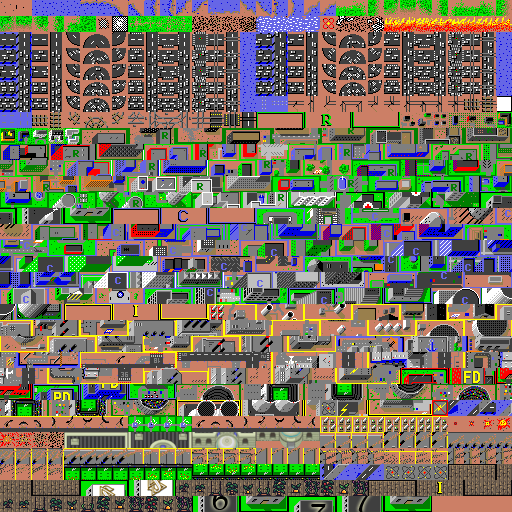
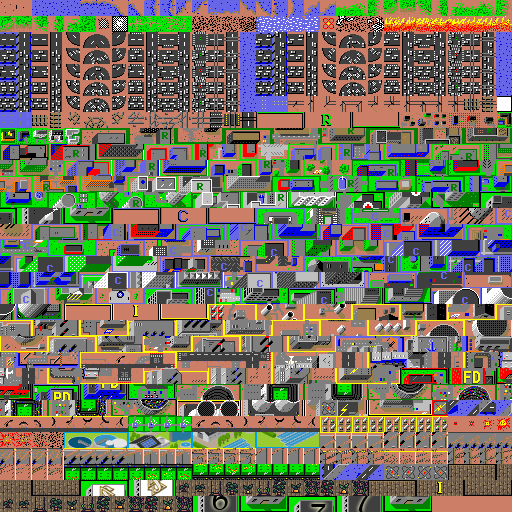
field window 2

Changed region(s): [[0.125, 0.8438, 0.625, 0.875]]

diff --git a/index.html b/index.html
@@ -115,7 +115,7 @@
           <div id="toolInfo" class="alignCenter"><span id="toolOutput">Tools</span></div>
           <div id="buttons">
             <button id="residentialButton" data-size="3" data-tool="residential" data-colour="lime" class="toolButton unselected">Residential $100</button>
-            <button id="fieldButton" data-size="3" data-tool="field" data-colour="darkgoldenrod" class="toolButton unselected">Field $100</button>
+            <button id="fieldButton" data-size="3" data-tool="field" data-colour="darkgoldenrod" class="toolButton unselected">Field</button>
             <button id="nuclearButton" data-size="4" data-tool="nuclear" data-colour="mistyrose" class="toolButton unselected">Nuclear $5000</button>
             <button id="commercialButton" data-size="3" data-tool="commercial" data-colour="blue" class="toolButton unselected">Commercial $100</button>
             <button id="coalButton" data-size="4" data-tool="coal" data-colour="gray" class="toolButton unselected">Coal $3000</button>
@@ -166,12 +166,44 @@
           <div id="build">Build: <%= htmlWebpackPlugin.options.gitHash %></div>
         </div>
       </footer>
+      <div class="hidden modal shadow" id="field">
+        <header id="fieldHeader" class="fieldHeader padding10 chunk alignCenter">
+           Field
+        </header>
+        <div id="fieldContainer" class="padding10 open">
+          <form id="fieldForm" class="alignCenter margin10">
+            <div id="fieldFormContainer">
+              <div id="autoBudgetSelect" class="padding10">
+                WWTP:
+                <input type="radio" class="WWTPSetting" name="WWTPSetting" id="WWTPYes" value="true" checked="checked"><label for="WWTPYes">Yes</label>
+                <input type="radio" class="WWTPSetting" name="WWTPSetting" id="WWTPNo" value="false"><label for="WWTPNo">No</label>
+              </div>
+              <div id="fieldTypeSelect" class="padding10"></div> 
+                Field type:
+                <input type="radio" class="FieldSetting" name="FieldSetting" id="FieldSelect" checked="checked"><label for="Field">Yes</label>
+                <input type="radio" class="FieldSetting" name="FieldSetting" id="IndFieldSelect"><label for="IndField">No</label>
+              </div>
+              <div id="cropSelect" class="padding10">  
+                Crop:
+                <select id="selectCrop">
+                  <option id="mela" value="Mela">Mela</option>
+                  <option id="pera" value="Pera">Pera</option>
+                  <option id="banana" value="Banana">Banana</option>
+                </select>
+              </div>
+            </div>
+            <button id="fieldCancel" class="cancel width140">Cancel</button>
+            <input type="submit" id="fieldOK" class="dialogOK width140" value="OK">
+          </form>
+        </div>
+      </div>
       <div class="hidden modal shadow" id="budget">
         <header id="budgetHeader" class="budgetHeader padding10 chunk alignCenter">
            Budget
         </header>
         <div id="budgetFormContainer" class="padding10 open">
           <form id="budgetForm">
+            <div id="fieldInfo" class="elided budgetRight budgetData">Year fields cost: <span id="fieldsCost"></span></div>
             <div id="taxInfo" class="elided budgetData">Tax Collected: <span id="taxesCollected"></span></div>
             <div id="cashInfo" class="elided budgetRight budgetData">Cashflow: <span id="cashFlow"></span></div>
             <div id="previousInfo" class="elided budgetData">Previous funds: <span id="previousFunds"></span></div>

diff --git a/src/budget.js b/src/budget.js
@@ -37,6 +37,7 @@ var Budget = EventEmitter(function() {
   this.cityTax = 7;
   this.cashFlow = 0;
   this.taxFund = 0;
+  this.fieldsCost = 0;
 
   // These values denote how much money is required to fully maintain the relevant services
   this.roadMaintenanceBudget = 0;
@@ -60,7 +61,7 @@ var Budget = EventEmitter(function() {
 
 var saveProps = ['autoBudget', 'totalFunds', 'policePercent', 'roadPercent', 'firePercent', 'roadSpend',
                  'policeSpend', 'fireSpend', 'roadMaintenanceBudget', 'policeMaintenanceBudget',
-                 'fireMaintenanceBudget', 'cityTax', 'roadEffect', 'policeEffect', 'fireEffect'];
+                 'fireMaintenanceBudget', 'cityTax', 'roadEffect', 'policeEffect', 'fireEffect', 'fieldsCost'];
 
 Budget.prototype.save = function(saveData) {
   for (var i = 0, l = saveProps.length; i < l; i++)
@@ -173,7 +174,7 @@ Budget.prototype.doBudgetNow = function(fromWindow) {
   var policeCost = costs.police;
   var fireCost = costs.fire;
   var totalCost = roadCost + policeCost + fireCost;
-  var cashRemaining = this.totalFunds + this.taxFund - totalCost;
+  var cashRemaining = this.totalFunds + this.taxFund - this.fieldsCost - totalCost;
 
   // Autobudget
   if ((cashRemaining > 0 && this.autoBudget) || fromWindow) {
@@ -196,7 +197,7 @@ Budget.prototype.doBudgetSpend = function(roadValue, fireValue, policeValue) {
   this.roadSpend = roadValue;
   this.fireSpend = fireValue;
   this.policeSpend = policeValue;
-  var total = this.roadSpend + this.fireSpend + this.policeSpend;
+  var total = this.roadSpend + this.fireSpend + this.policeSpend + this.fieldsCost;
 
   this.spend(-(this.taxFund - total));
   this.updateFundEffects();
@@ -239,7 +240,7 @@ Budget.prototype.collectTax = function(gameLevel, census) {
   this.taxFund = Math.floor(Math.floor(census.totalPop * census.landValueAverage / 120) * this.cityTax * FLevels[gameLevel]);
 
   if (census.totalPop > 0) {
-    this.cashFlow = this.taxFund - (this.policeMaintenanceBudget + this.fireMaintenanceBudget + this.roadMaintenanceBudget);
+    this.cashFlow = this.taxFund - (this.fieldsCost + this.policeMaintenanceBudget + this.fireMaintenanceBudget + this.roadMaintenanceBudget);
     this.doBudgetNow(false);
   } else {
     // We don't want roads etc deteriorating when population hasn't yet been established

diff --git a/src/game.js b/src/game.js
@@ -14,6 +14,7 @@ import { CongratsWindow } from './congratsWindow';
 import { DebugWindow } from './debugWindow';
 import { DisasterWindow } from './disasterWindow';
 import { EvaluationWindow } from './evaluationWindow';
+import { FieldWindow } from './fieldWindow';
 import { GameCanvas } from './gameCanvas';
 import { GameMap } from './gameMap';
 import { InfoBar } from './infoBar';
@@ -123,7 +124,8 @@ function Game(gameMap, tileSet, snowTileSet, spriteSheet, difficulty, name) {
       policeRate: Math.floor(this.simulation.budget.policePercent * 100),
       taxRate: this.simulation.budget.cityTax,
       totalFunds: this.simulation.budget.totalFunds,
-      taxesCollected: this.simulation.budget.taxFund
+      taxesCollected: this.simulation.budget.taxFund,
+      fieldsCost: this.simulation.budget.fieldsCost
     };
 
     return [budgetData];
@@ -172,6 +174,16 @@ function Game(gameMap, tileSet, snowTileSet, spriteSheet, difficulty, name) {
   // ... the touch warn window
   this.touchWindow = new TouchWarnWindow(opacityLayerID, 'touchWarnWindow');
   this.touchWindow.addEventListener(Messages.TOUCH_WINDOW_CLOSED, this.genericDialogClosure);
+
+  // ... the field crops choise window
+  this.handleFieldRequest = makeWindowOpenHandler('field', function() {
+    return [{autoBudget: this.simulation.budget.autoBudget, autoBulldoze: BaseTool.getAutoBulldoze(),
+      speed: this.defaultSpeed, disasters: this.simulation.disasterManager.disastersEnabled}];
+  }.bind(this));
+
+  this.fieldWindow = new FieldWindow(opacityLayerID, 'field');
+  this.fieldWindow.addEventListener(Messages.FIELD_WINDOW_CLOSED, this.genericDialogClosure);
+  this.inputStatus.addEventListener(Messages.FIELD_REQUESTED, this.handleFieldRequest.bind(this));
 
   // ... and finally the query window
   this.queryWindow = new QueryWindow(opacityLayerID, 'queryWindow');

diff --git a/src/inputStatus.js b/src/inputStatus.js
@@ -60,6 +60,7 @@ var InputStatus = EventEmitter(function(map, tileWidth) {
   $('.toolButton').click(toolButtonHandler.bind(this));
   $('#budgetRequest').click(budgetHandler.bind(this));
   $('#evalRequest').click(evalHandler.bind(this));
+  $('#fieldButton').click(fieldHandler.bind(this));
   $('#disasterRequest').click(disasterHandler.bind(this));
   $('#pauseRequest').click(this.speedChangeHandler.bind(this));
   $('#screenshotRequest').click(screenshotHandler.bind(this));
@@ -300,6 +301,7 @@ var budgetHandler = makeHandler('BUDGET_REQUESTED');
 var debugHandler = makeHandler('DEBUG_WINDOW_REQUESTED');
 var disasterHandler = makeHandler('DISASTER_REQUESTED');
 var evalHandler = makeHandler('EVAL_REQUESTED');
+var fieldHandler = makeHandler('FIELD_REQUESTED');
 var screenshotHandler = makeHandler('SCREENSHOT_WINDOW_REQUESTED');
 var settingsHandler = makeHandler('SETTINGS_WINDOW_REQUESTED');
 var saveHandler = makeHandler('SAVE_REQUESTED');

diff --git a/src/fieldWindow.js b/src/fieldWindow.js
@@ -24,6 +24,7 @@ var fieldOKID = '#fieldOK';
 var WWTPYesID = '#WWTPYes';
 var WWTPNoID = '#WWTPNo';
 var fieldSelectID = '#fieldSelect';
+var indFieldSelectID = '#indFieldSelect'
 
 
 
@@ -33,6 +34,10 @@ FieldWindow.prototype.close = function(actions) {
   this._toggleDisplay();
 };
 
+var cancel = function(e) {
+  e.preventDefault();
+  this.close({cancelled: true});
+};
 
 var submit = function(e) {
   e.preventDefault();
@@ -55,7 +60,7 @@ var submit = function(e) {
 };
 
 
-SettingsWindow.prototype.open = function(settingsData) {
+FieldWindow.prototype.open = function(fieldData) {
   if (fieldData.WWTP)
     $(WWTPYesID).prop('checked', true);
   else
@@ -89,4 +94,4 @@ defineAction('WWTP');
 
 
 
-export { SettingsWindow };
+export { FieldWindow };

diff --git a/src/messages.js b/src/messages.js
@@ -28,6 +28,8 @@ var messageData = {
   EVAL_UPDATED: MiscUtils.makeConstantDescriptor('Evaluation Updated'),
   EVAL_WINDOW_CLOSED: MiscUtils.makeConstantDescriptor('Eval window closed'),
   EXPLOSION_REPORTED: MiscUtils.makeConstantDescriptor('Explosion Reported'),
+  FIELD_REQUESTED: MiscUtils.makeConstantDescriptor('Field window requested'),
+  FIELD_WINDOW_CLOSED: MiscUtils.makeConstantDescriptor('Field window closed'),
   FIRE_REPORTED: MiscUtils.makeConstantDescriptor('Fire!'),
   FIRE_STATION_NEEDS_FUNDING: MiscUtils.makeConstantDescriptor('Fire station needs funding'),
   FLOODING_REPORTED: MiscUtils.makeConstantDescriptor('Flooding reported'),

diff --git a/src/tile.js b/src/tile.js
@@ -365,9 +365,9 @@ Tile.CHURCH0        = 418; // numbered alias
 Tile.FIELDBASE      = 956;//Tile.RESBASE; // Empty field, tiles
 Tile.FREEF          = 960; //Tile.FREEZ; // center-tile of 3x3 empty field
 
-Tile.FARM           = 971; //Tile.HOUSE; // Single tile farms
-Tile.FFARM          = Tile.FARM; // first farm = first house
-Tile.LFARM          = 982; // Tile.HHTHR; // last farm = last house
+Tile.FARM           = 971; // Single tile farms ----- start tile of crops
+Tile.FFARM          = Tile.FARM; // first farm
+Tile.LFARM          = 982; // last farm
  
 Tile.FZB            = 975; //Tile.RZB; // center tile first 3x3 tile field
 

diff --git a/src/budgetWindow.js b/src/budgetWindow.js
@@ -140,6 +140,7 @@ BudgetWindow.prototype.open = function(budgetData) {
   $('#cashFlow').text((cashFlow < 0 ? '-$' : '$') + cashFlow);
   $('#previousFunds').text((previousFunds < 0 ? '-$' : '$') + previousFunds);
   $('#currentFunds').text('$' + currentFunds);
+  $('#fieldsCost').text('$' + fieldsCost);
 
   this._toggleDisplay();
 };

diff --git a/css/style.css b/css/style.css
@@ -602,7 +602,7 @@ nav li {
   background-color: lime;
 }
 
-#FieldButton {
+#fieldButton, #fieldHeader {
   background-color: darkgoldenrod;
 }
 
